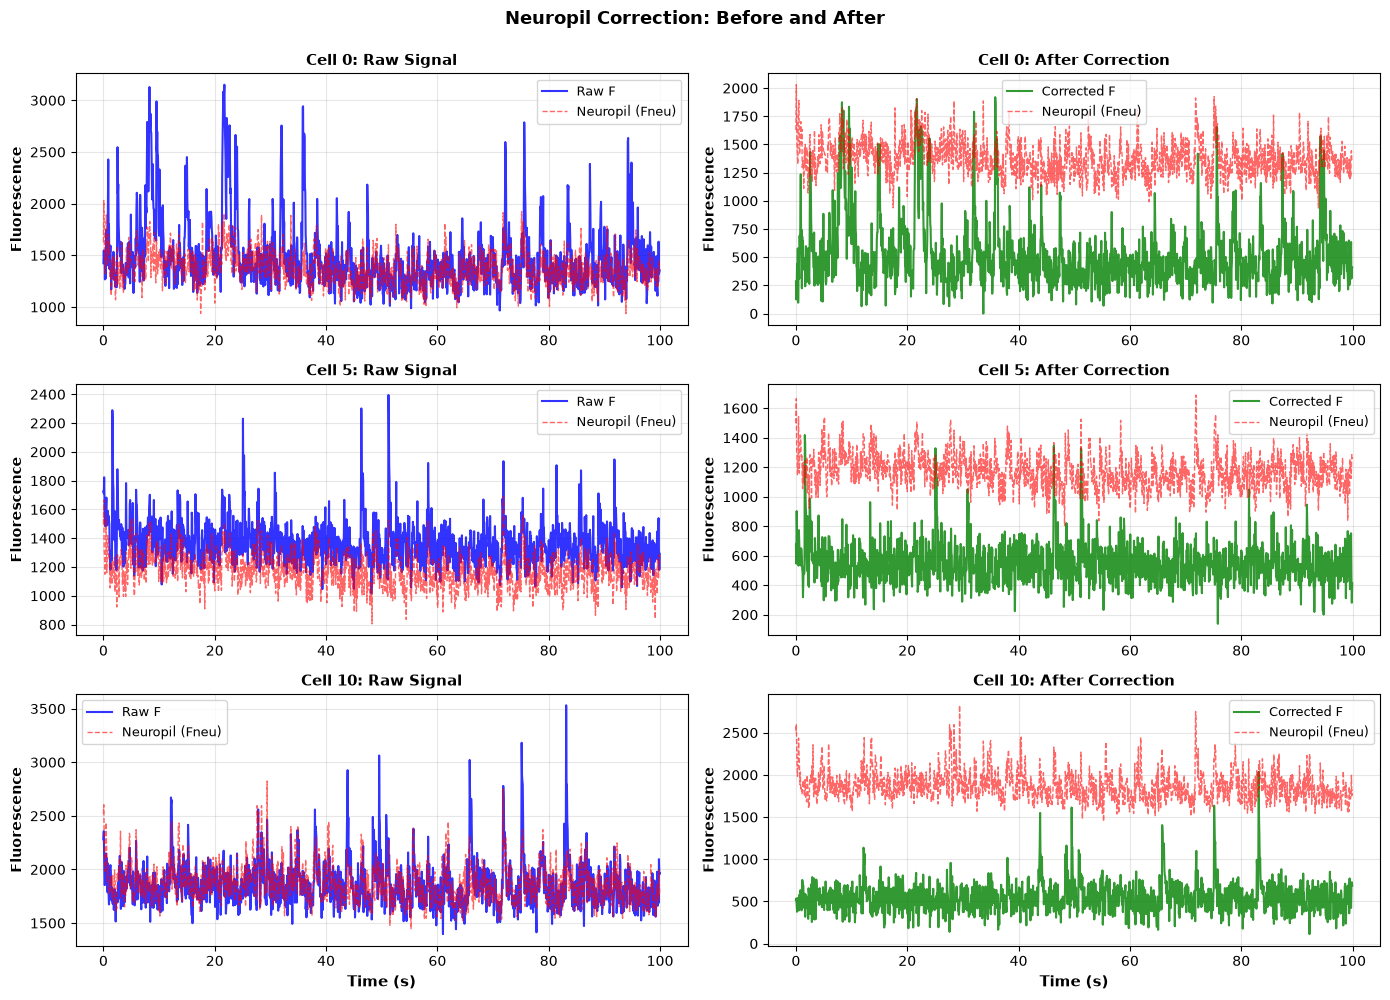
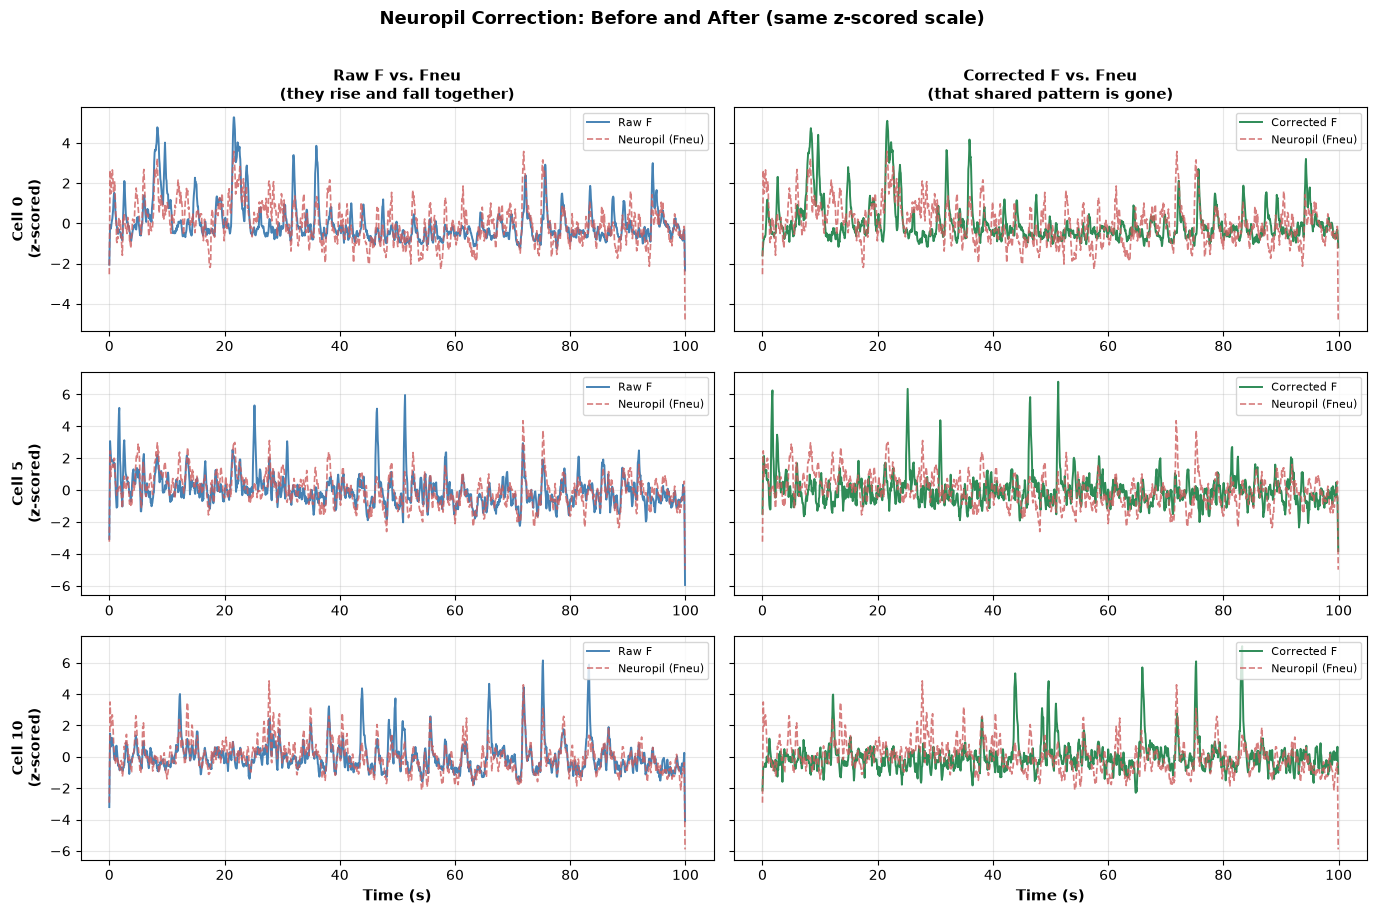
update

diff --git a/README.md b/README.md
@@ -3,6 +3,8 @@
 
 **Roadmap**: This document has two parts. First, **setup** (getting onto the SCC, installing an AI coding assistant, cloning the repo) — skip ahead if you've already done this. Second, **the three exercises** themselves, starting at [The Exercises](#the-exercises-warmup--main--challenge). If you just want to know what you'll actually be doing, jump there now and come back for setup afterward.
 
+💬 **First thing to do once Cline is set up**: ask it to read this README (`README.md`) in full. That gives it the full context for everything you'll ask it afterward, instead of guessing from a single pasted snippet.
+
 ### What This Exercise Is About
 
 You'll learn to analyze **real two-photon calcium imaging recordings** from awake mice using Python and AI-assisted coding (Cline + Gemini). The data comes from cortical neurons expressing genetically-encoded calcium indicators (jRGECO1a), imaged at 15 Hz during spontaneous activity.
@@ -384,6 +386,8 @@ Before Exercise 1, just load the files and look at them — no analysis, nothing
 
 If your plots look roughly like this, you're oriented and ready for Exercise 1.
 
+💬 Not sure how to load an `.npy` file, or what `ops['meanImg']` even is? Ask Cline — that's exactly what it's there for.
+
 ---
 
 ## Exercise 1: Neuropil Removal (Warmup)
@@ -412,6 +416,8 @@ Apply `F_corrected = F - 0.7 * Fneu` to the good-quality cells (`iscell ≥ 0.15
 
 ⚠ Compute the correlation **per cell, then average** — not by pooling every cell's data into one big correlation. Pooling mixes in brightness differences *between* cells (which the correction can't fix) and makes the contamination look worse than it is.
 
+💬 If your correlation isn't dropping the way you'd expect, describe what you're seeing to Cline and ask it to help you debug — this is a common place to get stuck on an off-by-one or an unintended broadcast.
+
 **Expected result** (this dataset):
 - Mean per-cell correlation: **0.44 → -0.13** (a **71.6%** reduction)
 - The correction overshoots slightly rather than landing exactly on zero — an honest result, not a claim that α = 0.7 is perfect for every dataset
@@ -421,7 +427,7 @@ Apply `F_corrected = F - 0.7 * Fneu` to the good-quality cells (`iscell ≥ 0.15
 
 ![Neuropil correction: raw vs. corrected traces](assets/exercise1_neuropil_correction.png)
 
-*Raw fluorescence (blue) and neuropil (red, dashed) for three example cells (left); corrected fluorescence (green) and the same neuropil trace (right). The corrected traces track the neuropil much less closely.*
+*Three example cells (rows), each shown two ways on the same z-scored scale: raw F vs. Fneu (left) and corrected F vs. Fneu (right). In the left column, the background wobble in blue tracks the red dashed neuropil trace closely. In the right column, that shared wobble is largely gone — the sharp transients that remain in green are essentially independent of Fneu.*
 
 ![Per-cell correlation before vs. after correction](assets/exercise1_per_cell_correlation.png)
 
@@ -454,6 +460,8 @@ Suite2p's algorithm, **OASIS** ([docs](https://suite2p.readthedocs.io/en/latest/
 ⚠ Two things that will silently break this:
 - **Use a non-negative Lasso** (`sklearn.linear_model.Lasso(positive=True)`) for the actual L1 sparsity penalty — not `scipy.optimize.nnls` plus a smoothness penalty. Spikes are sparse impulses, not smooth curves; a smoothness penalty fights against recovering them.
 - **Match peaks, not frames.** The recovered trace spreads across several frames around each real event. Find peaks in it and match each to the nearest true spike within a small tolerance window — comparing frame-by-frame manufactures false positives out of one event's own shoulders.
+
+💬 This is the most mathematically involved exercise — if the inverse problem, the Toeplitz matrix, or why the L1 penalty matters doesn't click, ask Cline to walk through it with a concrete small example (e.g. 3 spikes, a short kernel). Also a good exercise to ask Cline to help tune `alpha` if your solver returns all zeros or way too many spikes.
 
 ### Deliverable 2 — Real Data
 
@@ -526,10 +534,14 @@ Detect cells from the static mean image alone (smooth → threshold → connecte
 
 ⚠ Use `ops['meanImg']` (from `ops.npy`) for the image — **not** `F.mean(axis=1)`, which gives one number per already-detected cell, not a spatial image at all.
 
+💬 If your sensitivity/precision look nowhere close to the numbers below (e.g. both near 0%), that's usually a sign something upstream is off — wrong image, wrong coordinate order, or a threshold that's degenerate. Describe your numbers to Cline and it can help you narrow down where.
+
+**Tuning tip**: a loose threshold (e.g. the 80th percentile) lets huge swaths of diffuse neuropil through alongside real cells, and a bare `size > 10 pixels` filter keeps tiny noise specks. Two changes make a real difference without adding any new method: (1) push the threshold much higher — only the brightest ~1% of pixels reliably separates cell bodies from neuropil background in this dataset — and (2) filter components by a size range matching real cells (this dataset's own ROIs span 31–1173 pixels), not just a low floor.
+
 **Expected result** (this dataset):
-- Sensitivity: **42.4%** (you catch fewer than half of Suite2p's cells)
-- Precision: **33.5%** (roughly two-thirds of your detections are not real cells)
-- Both numbers are modest — a single static image genuinely doesn't contain enough information to separate cells from bright neuropil reliably
+- With an 80th-percentile threshold and a bare `size > 10` filter: sensitivity **42.4%**, precision **33.5%**
+- With a 99th-percentile threshold and a size filter matching real cell dimensions (20–1500 pixels): sensitivity **51.2%**, precision **68.8%** — a substantial improvement from tuning the same simple method, not a different algorithm
+- Even tuned, this remains well below Suite2p's Sparsery — a single static image still doesn't contain enough information to separate cells from bright neuropil as reliably as a movie-aware method can
 
 ### Deliverable 2 — Does "Matched" Mean "Same Signal"?
 
@@ -537,11 +549,11 @@ Position-matching only checks whether your detection's *center* landed near a Su
 
 **Method**: For every matched pair from Deliverable 1, pull your detection's own raw pixel-averaged trace directly from the movie (`ops.npy`'s registered TIFF, not anything Suite2p precomputed), and correlate it against Suite2p's own `F` trace for that same cell. Then look at a few of your best- and worst-correlated matches side by side — both the image (do the two ROI outlines actually overlap?) and the traces (do they move together?).
 
-**Expected result** (this dataset):
-- Across the 53 matched pairs: mean correlation **0.37**, median **0.32**, range **[0.04, 0.95]**
-- 17 of 53 matches (32%) have correlation > 0.5 — genuinely capturing the same signal
-- 20 of 53 matches (38%) have correlation < 0.2 — spatially "close enough" but not the same signal
-- Looking at the worst matches, the two ROI outlines are often visibly non-overlapping — the 30-pixel matching threshold in Deliverable 1 is loose enough to count some clearly-different blobs as a "match"
+**Expected result** (this dataset, using the tuned detector from Deliverable 1):
+- Across the 64 matched pairs: mean correlation **0.48**, median **0.43**, range **[0.10, 0.93]**
+- 28 of 64 matches (44%) have correlation > 0.5 — genuinely capturing the same signal
+- 10 of 64 matches (16%) have correlation < 0.2 — spatially "close enough" but not the same signal
+- Better detection (Deliverable 1's tuning) didn't just find more matches — it found *better* ones: both the fraction of high-correlation matches and low-correlation matches improved. Looking at the remaining poor matches, the two ROI outlines are often still visibly non-overlapping — the 30-pixel matching threshold is loose enough to count some clearly-different blobs as a "match"
 
 ### What You'll See
 
@@ -559,7 +571,7 @@ After implementing a simple detector, you'll see:
 1. **You miss a substantial fraction of real cells** — a single mean image doesn't separate all cells from background as cleanly as you'd hope
 2. **A large share of your detections are false positives** — bright neuropil regions and imaging artifacts pass the same threshold real cells do
 3. **Static brightness alone is a weak signal**: some real cells aren't much brighter than their surroundings in the time-averaged image, even though they are clearly active over time
-4. **"Correct" isn't binary**: even among your position-matched "true positives," a third have essentially no signal agreement with the cell they supposedly matched — sensitivity and precision alone hide this
+4. **"Correct" isn't binary**: even among your position-matched "true positives," some have essentially no signal agreement with the cell they supposedly matched — sensitivity and precision alone hide this
 5. **Why Suite2p's default beats this**: by using the whole movie (not one static image), Suite2p can distinguish sources based on *when* they're active, not just how bright they are on average — information a single-image threshold simply doesn't have access to
 
 This teaches you: **the information you throw away (here, all of the movie's temporal structure) often matters more than the algorithm you use on what's left — and a metric that only checks position can hide exactly how much you're missing.**
